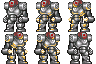
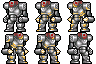
Add black outline around everything.

diff --git a/robotwar/CREDITS.md b/robotwar/CREDITS.md
@@ -1,3 +1,10 @@
+## bossrobot.png
+Robot
+Created by Anderson dos Santos
+Modified to add black outline and resize
+License: CC-BY-SA 3.0
+https://opengameart.org/content/robot-4
+
 ## cybermonkey.png
 Created by Bill Kendrick for Bobobot
 Modified by Dennis Payne to be larger and have cybord elements
@@ -6,13 +13,14 @@ License: GPL 2.0
 ## drone1.png
 Scifi creature tileset (mini 32x32 scifi creature icons)
 Created by Stephen Challener (Redshrike), hosted by OpenGameArt.org
+Modified to add black outline
 License: CC-BY 3.0, OGA-BY 3.0
 https://opengameart.org/content/scifi-creature-tileset-mini-32x32-scifi-creature-icons
 
 ## drone2.png
 Scifi creature tileset (mini 32x32 scifi creature icons)
 Created by Stephen Challener (Redshrike), hosted by OpenGameArt.org
-Slightly enlarged and cockpit turned red
+Slightly enlarged, cockpit turned red and black outline added
 License: CC-BY 3.0, OGA-BY 3.0
 https://opengameart.org/content/scifi-creature-tileset-mini-32x32-scifi-creature-icons
 
@@ -20,6 +28,7 @@ https://opengameart.org/content/scifi-creature-tileset-mini-32x32-scifi-creature
 Scifi creature tileset (mini 32x32 scifi creature icons)
 Created by Stephen Challener (Redshrike), hosted by OpenGameArt.org
 First image but took spinning top from later images.
+Modified to add black outline
 License: CC-BY 3.0, OGA-BY 3.0
 https://opengameart.org/content/scifi-creature-tileset-mini-32x32-scifi-creature-icons
 
@@ -35,6 +44,10 @@ Lightning effect modified from Radial lightning effect
 Created by 13rice from OpenGameArt
 License: CC0
 https://opengameart.org/content/radial-lightning-effect
+
+## largersaw.png
+Modified from original Mojotron to add black outline
+License: GPL 2.0
 
 ## plate.png
 Created by Dennis Payne
@@ -78,20 +91,21 @@ https://opengameart.org/content/green-robot-enemy
 ## robot1.png
 Scifi creature tileset (mini 32x32 scifi creature icons)
 Created by Stephen Challener (Redshrike), hosted by OpenGameArt.org
-Modified to have red eyes
+Modified to have red eyes and black outline
 License: CC-BY 3.0, OGA-BY 3.0
 https://opengameart.org/content/scifi-creature-tileset-mini-32x32-scifi-creature-icons
 
 ## robot2.png
 Scifi creature tileset (mini 32x32 scifi creature icons)
 Created by Stephen Challener (Redshrike), hosted by OpenGameArt.org
+Modified to add black outline
 License: CC-BY 3.0, OGA-BY 3.0
 https://opengameart.org/content/scifi-creature-tileset-mini-32x32-scifi-creature-icons
 
 ## robot3.png
 Scifi creature tileset (mini 32x32 scifi creature icons)
 Created by Stephen Challener (Redshrike), hosted by OpenGameArt.org
-Modified to have cockpit
+Modified to have cockpit and add black outline
 License: CC-BY 3.0, OGA-BY 3.0
 https://opengameart.org/content/scifi-creature-tileset-mini-32x32-scifi-creature-icons
 
@@ -104,17 +118,20 @@ https://opengameart.org/content/scifi-creature-tileset-mini-32x32-scifi-creature
 ## spiderbot.png
 Scifi creature tileset (mini 32x32 scifi creature icons)
 Created by Stephen Challener (Redshrike), hosted by OpenGameArt.org
+Modified to add black outline
 License: CC-BY 3.0, OGA-BY 3.0
 https://opengameart.org/content/scifi-creature-tileset-mini-32x32-scifi-creature-icons
 
 ## tank1.png
 Scifi creature tileset (mini 32x32 scifi creature icons)
 Created by Stephen Challener (Redshrike), hosted by OpenGameArt.org
+Modified to add black outline
 License: CC-BY 3.0, OGA-BY 3.0
 https://opengameart.org/content/scifi-creature-tileset-mini-32x32-scifi-creature-icons
 
 ## tank2.png
 Modified Dalek from original Mojotron
+Modified to add black outline
 License: GPL 2.0
 
 ## tower.png
